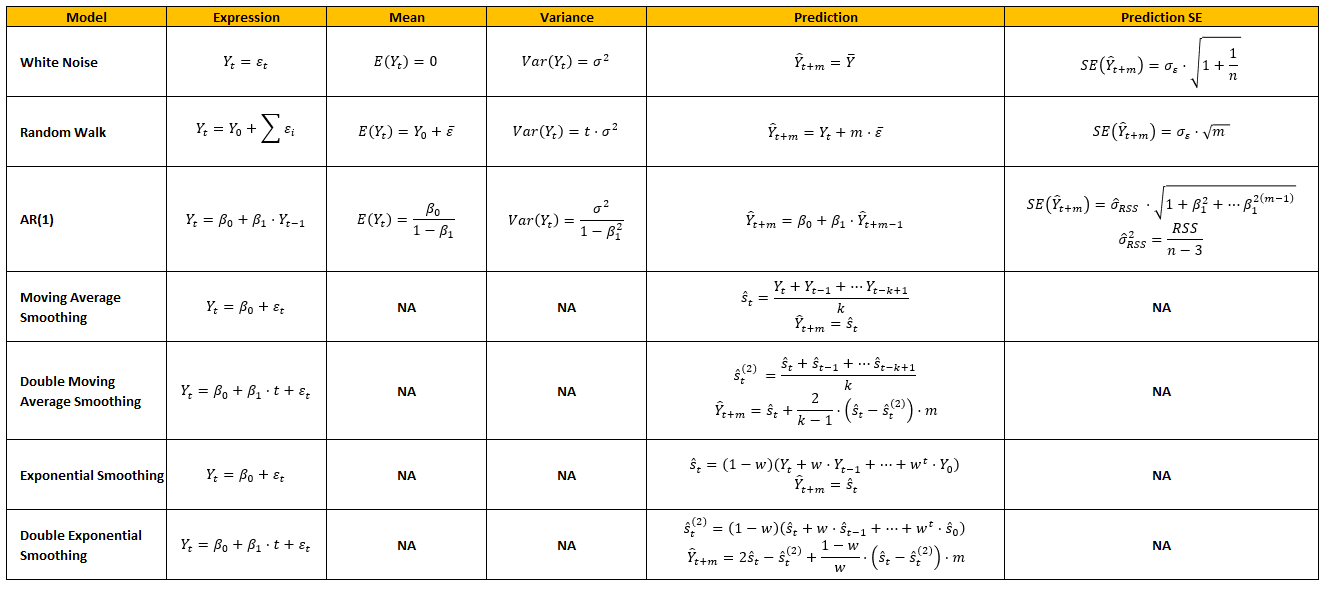
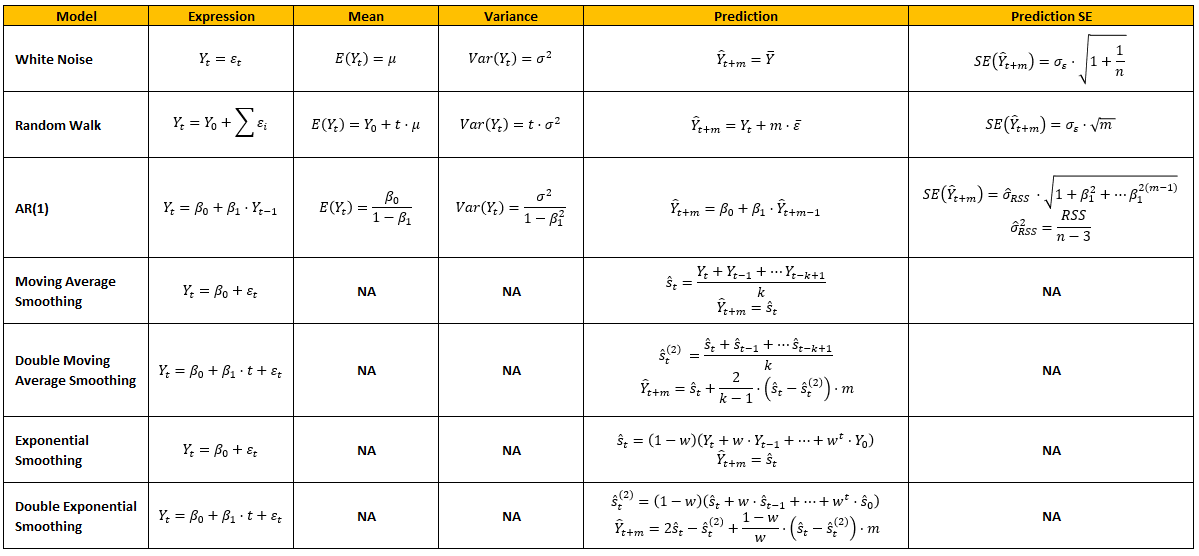
Monday 26/05/2025 20:14 Updates

diff --git a/docs/3. Predictive Analytics/1. ASA-SRM/10. Time Series.md b/docs/3. Predictive Analytics/1. ASA-SRM/10. Time Series.md
@@ -116,14 +116,17 @@ The following chart provides an example of different aspects of stationarity:
 
 ### **White Noise**
 
-A variable that is naturally stationary is often referred to as **White Noise**, which is a term used to refer to a process that is **completely random**. The best forecast for such a variable is **simply its mean**; since it is assumed to be completely random: 
+A variable that is **naturally stationary** is often referred to as **White Noise**, which is a term used to refer to a process that is **completely random**. The best forecast for such a variable is **simply its mean**; since it is assumed to be completely random: 
 
 $$
 \begin{aligned}
     y_{t} &= \varepsilon_{t} \\
     \\
+    E(y_{t}) &= \mu \\
+    \text{Var}(y_{t}) &= \sigma^{2} \\
+    \\
     \hat{y}_{t+m} &= \bar{y} \\
-    \text{SE}({\hat{y}_{t+m}}) &= s_{y} \cdot \sqrt{1 + \frac{1}{n}} \\
+    \text{SE}({\hat{y}_{t+m}}) &= \sigma \cdot \sqrt{1 + \frac{1}{n}} \\
     \text{PI} &= \bar{y} \pm t_{\alpha} \cdot s_{y} \cdot \sqrt{1 + \frac{1}{n}}
 \end{aligned}
 $$
@@ -156,13 +159,19 @@ A random walk itself is **NOT stationary**. However, the **DIFFERENCE** across 1
 
 $$
 \begin{aligned}
-    E(y_{t}) &= y_{0} + \bar{\varepsilon} \\
+    E(y_{t}) &= y_{0} + t \cdot \mu \\
     \text{Var}(y_{t}) &= t \cdot \sigma^{2} \\
     \\
     E(y_{t} - y_{t-1}) &= \bar{\varepsilon} \\
     \text{Var}(y_{t} - y_{t-1}) &= \sigma^{2}
 \end{aligned}
 $$
+
+!!! Warning
+
+    To be precise, a random walk can be **stationary in the mean** if $\mu=0$, which is common for white noise.
+
+    It can be stationary in the variance as well for $\sigma=0$, but that is highly unlikely, which is why random walk is often marked as not stationary, due to its non-stationary variance.
 
 <!-- Obtained from Coaching Actuaries -->
 ![DIFFERENCED_STATIONARY](Assets/10.%20Time%20Series.md/DIFFERENCED_STATIONARY.png)
@@ -262,7 +271,7 @@ $$
 \begin{aligned}
     E(y_{t}) &= \frac{\beta_{0}}{1 - \beta_{1}} \\
     \text{Var}(y_{t}) &= \frac{\sigma^{2}}{1 - \beta^{2}_{1}} \\
-    \text{Cov}(Y_{t}, Y_{t-k}) &= \beta^{k}_{1}
+    \text{Corr}(Y_{t}, Y_{t-k}) &= \beta^{k}_{1}
 \end{aligned}
 $$
 
